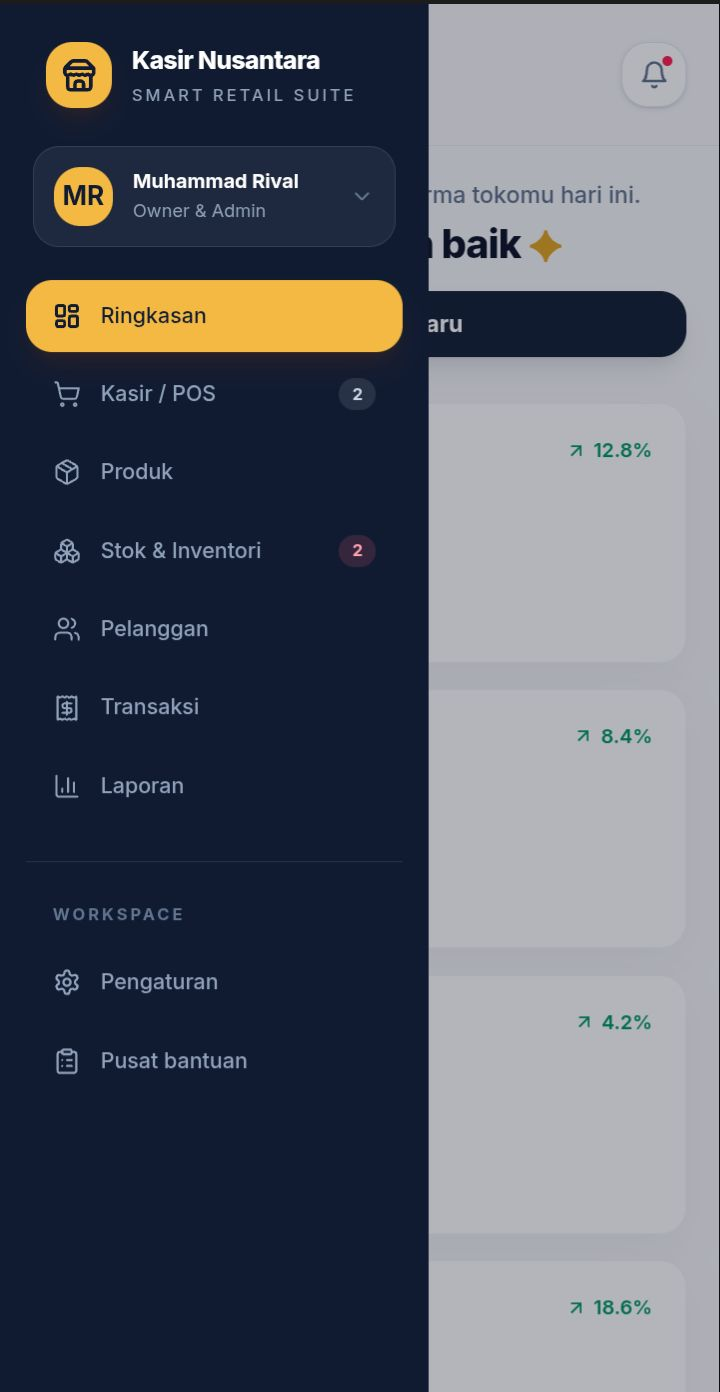
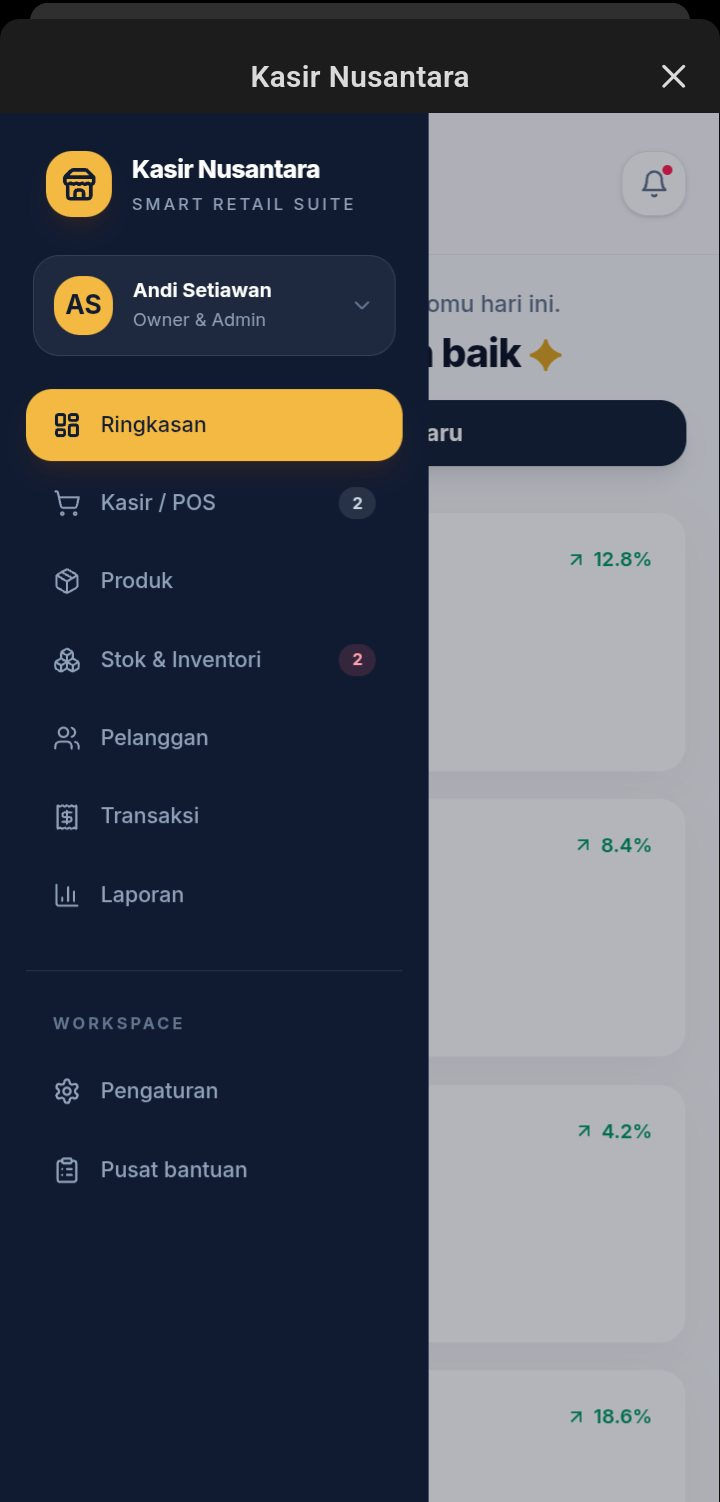
eweq

diff --git a/src/App.tsx b/src/App.tsx
@@ -3,10 +3,11 @@ import { ArrowUpRight, Check, Code2, Menu, X, Palette, Server, Sparkles, Mail, M
 import './App.css'
 
 type Category = 'All' | 'Frontend' | 'Backend' | 'Graphic Design' | 'Artwork'
-type Project = { title:string; category:Exclude<Category,'All'>; year:string; desc:string; tags:string[]; tone:string; number:string; detail:string; image:string; repo?:string }
+type Project = { title:string; category:Exclude<Category,'All'>; year:string; desc:string; tags:string[]; tone:string; number:string; detail:string; image:string; repo?:string; live?:string }
 const projects:Project[] = [
  {title:'FileKomplit',category:'Frontend',year:'2026',desc:'Toolkit file yang diproses langsung di browser, tanpa upload ke server.',tags:['React','Vite','UX/UI'],tone:'lime',number:'01',image:'/filekomplit.jpg',repo:'https://github.com/KimTaehyung666/filekomplit',detail:'Aplikasi utilitas file berbasis client-side: alur kerja PDF, konversi gambar, dan menu kustom yang nyaman dipakai di HP. Semua data tetap di perangkat pengguna.'},
  {title:'Kasir Nusantara',category:'Backend',year:'2026',desc:'Aplikasi kasir untuk toko kecil: stok, pelanggan, transaksi, dan laporan.',tags:['TypeScript','tRPC','SQL'],tone:'coral',number:'02',image:'/kasir.jpg',detail:'Konsep aplikasi kasir full-stack dengan dashboard stok, pelanggan, transaksi, laporan, dan pembagian peran pengguna.'},
+ {title:'Dashboard Gempa',category:'Frontend',year:'2026',desc:'Dashboard gempa Indonesia: peta interaktif, statistik, dan grafik dari data BMKG dan USGS.',tags:['JavaScript','Leaflet','Chart.js'],tone:'violet',number:'03',image:'/gempa.jpg',repo:'https://github.com/KimTaehyung666/gempa',detail:'Visualisasi data publik gempa Indonesia: peta interaktif, kartu statistik, dan tiga grafik (distribusi magnitudo, kedalaman, jumlah per hari). Mengambil data langsung dari API BMKG dan USGS.'},
 ]
 const skills = ['React / TypeScript','Node.js / Express','SQL / API Design','Figma / UI Design','Branding / Layout']
 function App(){
@@ -18,13 +19,13 @@ function App(){
   <main id="top">
    <section className="hero section-wrap"><div className="hero-copy"><p className="kicker"><Sparkles size={14}/> Frontend developer &amp; desainer</p><h1>Website rapi,<br/><em>tampilan berkarakter.</em></h1><p className="hero-lede">Halo, saya Muhammad Rival. Saya membuat website dan antarmuka yang rapi dipakai dan enak dilihat, dari landing page sampai aplikasi web. Terbuka untuk proyek freelance.</p><div className="hero-cta"><button className="primary" onClick={()=>scroll('work')}>Lihat proyek <ArrowUpRight size={17}/></button><button className="text-btn" onClick={()=>scroll('contact')}>Hubungi saya <span>↗</span></button></div></div><div className="hero-art"><div className="art-card art-back"><span>01</span><b>Desain<br/>lalu kode.</b></div><div className="art-card art-front"><div className="art-orbit one"/><div className="art-orbit two"/><div className="art-star">✳</div><span>DESAIN / KODE / RILIS</span></div><div className="hero-photo"><img src="/portrait.png" alt="Muhammad Rival portrait" /><span>MUHAMMAD<br/>RIVAL</span></div><div className="hero-stamp">MR<br/><small>FREELANCE</small></div></div></section>
    <section className="marquee"><div>FRONTEND <i>✦</i> UI DESIGN <i>✦</i> LANDING PAGE <i>✦</i> WEB APP <i>✦</i> FRONTEND <i>✦</i></div></section>
-   <section id="work" className="section-wrap work-section"><div className="section-head"><div><p className="eyebrow">Proyek pilihan</p><h2>Proyek yang <em>pernah saya buat.</em></h2></div><p className="section-note">Dua proyek nyata: dari alat file di browser sampai aplikasi kasir.</p></div><div className="filters">{(['All','Frontend','Backend'] as Category[]).map(c=><button className={category===c?'active':''} key={c} onClick={()=>setCategory(c)}>{c}</button>)}</div><div className="project-grid">{visible.map(p=><button className={`project-card ${p.tone}`} key={p.title} onClick={()=>setSelected(p)}><div className="project-visual"><span className="project-number">{p.number}</span><span className="visual-label">{p.category}</span><img className="project-shot" src={p.image} alt={`Tampilan ${p.title}`} loading="lazy"/></div><div className="project-meta"><div><p>{p.category} · {p.year}</p><h3>{p.title}</h3></div><span className="round-arrow"><ArrowUpRight size={18}/></span></div><p className="project-desc">{p.desc}</p><div className="tag-row">{p.tags.map(t=><span key={t}>{t}</span>)}</div></button>)}</div></section>
+   <section id="work" className="section-wrap work-section"><div className="section-head"><div><p className="eyebrow">Proyek pilihan</p><h2>Proyek yang <em>pernah saya buat.</em></h2></div><p className="section-note">Tiga proyek nyata: alat file di browser, aplikasi kasir, dan dashboard data publik.</p></div><div className="filters">{(['All','Frontend','Backend'] as Category[]).map(c=><button className={category===c?'active':''} key={c} onClick={()=>setCategory(c)}>{c}</button>)}</div><div className="project-grid">{visible.map(p=><button className={`project-card ${p.tone}`} key={p.title} onClick={()=>setSelected(p)}><div className="project-visual"><span className="project-number">{p.number}</span><span className="visual-label">{p.category}</span><img className="project-shot" src={p.image} alt={`Tampilan ${p.title}`} loading="lazy"/></div><div className="project-meta"><div><p>{p.category} · {p.year}</p><h3>{p.title}</h3></div><span className="round-arrow"><ArrowUpRight size={18}/></span></div><p className="project-desc">{p.desc}</p><div className="tag-row">{p.tags.map(t=><span key={t}>{t}</span>)}</div></button>)}</div></section>
    <section id="about" className="about-section section-wrap"><div className="about-image"><div className="portrait-shape"><img src="/portrait.png" alt="Muhammad Rival" /></div><span className="image-caption">MUHAMMAD RIVAL / 2026</span></div><div className="about-copy"><p className="eyebrow">Tentang saya</p><h2>Self-taught,<br/><em>belajar dari proyek nyata.</em></h2><p>Saya belajar ngoding dan desain secara otodidak, lewat proyek nyata dan bukan cuma mengikuti tutorial.</p><p>Saya terbiasa memegang alurnya sendiri, dari desain tampilan sampai jadi kode, jadi hasilnya konsisten dan tidak bolak-balik. Berbasis di Indonesia, bisa bekerja jarak jauh.</p><div className="skill-list">{skills.map(s=><span key={s}><Check size={13}/>{s}</span>)}</div></div></section>
    <section id="services" className="section-wrap services-section"><div className="section-head"><div><p className="eyebrow">Layanan</p><h2>Yang bisa saya <em>kerjakan.</em></h2></div></div><div className="service-grid"><article><div className="service-icon"><Code2/></div><span>01</span><h3>Landing page &amp; web app</h3><p>Landing page, company profile, dan web app sederhana seperti dashboard atau katalog, responsif di semua layar.</p><a onClick={()=>scroll('contact')}>Diskusikan <ArrowUpRight size={15}/></a></article><article><div className="service-icon"><Palette/></div><span>02</span><h3>Desain UI &amp; visual</h3><p>Desain tampilan situs, poster, dan materi visual yang konsisten dengan identitas kamu.</p><a onClick={()=>scroll('contact')}>Ceritakan idenya <ArrowUpRight size={15}/></a></article><article><div className="service-icon"><Server/></div><span>03</span><h3>Dari desain sampai deploy</h3><p>Satu orang memegang alurnya: brief, desain, kode, revisi, lalu online.</p><a onClick={()=>scroll('contact')}>Mulai proyek <ArrowUpRight size={15}/></a></article></div></section>
    <section id="contact" className="contact-section section-wrap"><div><p className="eyebrow">Ayo ngobrol</p><h2>Punya proyek?<br/><em>Ceritakan idenya.</em></h2><p className="contact-copy">Ide masih kasar pun tidak apa-apa. Tulis singkat saja, nanti kita rapikan bareng.</p><a className="primary wa" href="https://wa.me/6281286428899" target="_blank" rel="noreferrer"><MessageCircle size={16}/> Chat lewat WhatsApp</a><div className="contact-links"><a href="mailto:kimt82038@gmail.com"><Mail size={16}/> kimt82038@gmail.com</a><a href="https://wa.me/6281286428899" target="_blank" rel="noreferrer"><MessageCircle size={16}/> WhatsApp 0812-8642-8899</a><span><MapPin size={16}/> Indonesia / Remote</span></div></div><form onSubmit={e=>{e.preventDefault();const f=new FormData(e.currentTarget);const body=`Halo Rival,\n\n${f.get('msg')}\n\nSalam,\n${f.get('name')} (${f.get('email')})`;window.location.href=`mailto:kimt82038@gmail.com?subject=${encodeURIComponent('Proyek dari '+f.get('name'))}&body=${encodeURIComponent(body)}`;setSent(true)}}><label>Nama<input name="name" required placeholder="mis. Alex"/></label><label>Email<input name="email" required type="email" placeholder="alex@email.com"/></label><label>Ceritakan sedikit<textarea name="msg" required placeholder="Apa yang mau kita buat?"></textarea></label><button className="primary" type="submit">{sent?'Aplikasi email dibuka ✓':'Kirim lewat email'} <Send size={16}/></button>{sent&&<small className="form-success">Aplikasi email kamu akan terbuka. Tinggal tekan kirim.</small>}</form></section>
   </main>
   <footer><span>© 2026 Muhammad Rival</span><span>Dibuat dengan React <b>✦</b></span><div><a href="#top">Back to top ↑</a><a href="https://github.com/KimTaehyung666" target="_blank" rel="noreferrer">GitHub</a><a href="https://instagram.com/10969val" target="_blank" rel="noreferrer">Instagram</a></div></footer>
-  {selected&&<div className="modal-backdrop" onClick={()=>setSelected(null)}><div className="modal" onClick={e=>e.stopPropagation()}><button className="modal-close" onClick={()=>setSelected(null)}><X size={18}/></button><img className="modal-shot" src={selected.image} alt={`Tampilan ${selected.title}`}/><p className="eyebrow">Detail proyek / {selected.year}</p><h2>{selected.title}</h2><p>{selected.detail}</p><div className="tag-row">{selected.tags.map(t=><span key={t}>{t}</span>)}</div><div className="modal-actions">{selected.repo?<a className="primary" href={selected.repo} target="_blank" rel="noreferrer">Lihat di GitHub <ArrowUpRight size={16}/></a>:<span className="repo-soon">Kode menyusul di GitHub</span>}<button className="primary alt" onClick={()=>{setSelected(null);scroll('contact')}}>Buat proyek serupa <ArrowUpRight size={16}/></button></div></div></div>}
+  {selected&&<div className="modal-backdrop" onClick={()=>setSelected(null)}><div className="modal" onClick={e=>e.stopPropagation()}><button className="modal-close" onClick={()=>setSelected(null)}><X size={18}/></button><img className="modal-shot" src={selected.image} alt={`Tampilan ${selected.title}`}/><p className="eyebrow">Detail proyek / {selected.year}</p><h2>{selected.title}</h2><p>{selected.detail}</p><div className="tag-row">{selected.tags.map(t=><span key={t}>{t}</span>)}</div><div className="modal-actions">{selected.live&&<a className="primary" href={selected.live} target="_blank" rel="noreferrer">Buka Live <ArrowUpRight size={16}/></a>}{selected.repo?<a className="primary" href={selected.repo} target="_blank" rel="noreferrer">Lihat di GitHub <ArrowUpRight size={16}/></a>:<span className="repo-soon">Kode menyusul di GitHub</span>}<button className="primary alt" onClick={()=>{setSelected(null);scroll('contact')}}>Buat proyek serupa <ArrowUpRight size={16}/></button></div></div></div>}
  </div>
 }
 export default App
